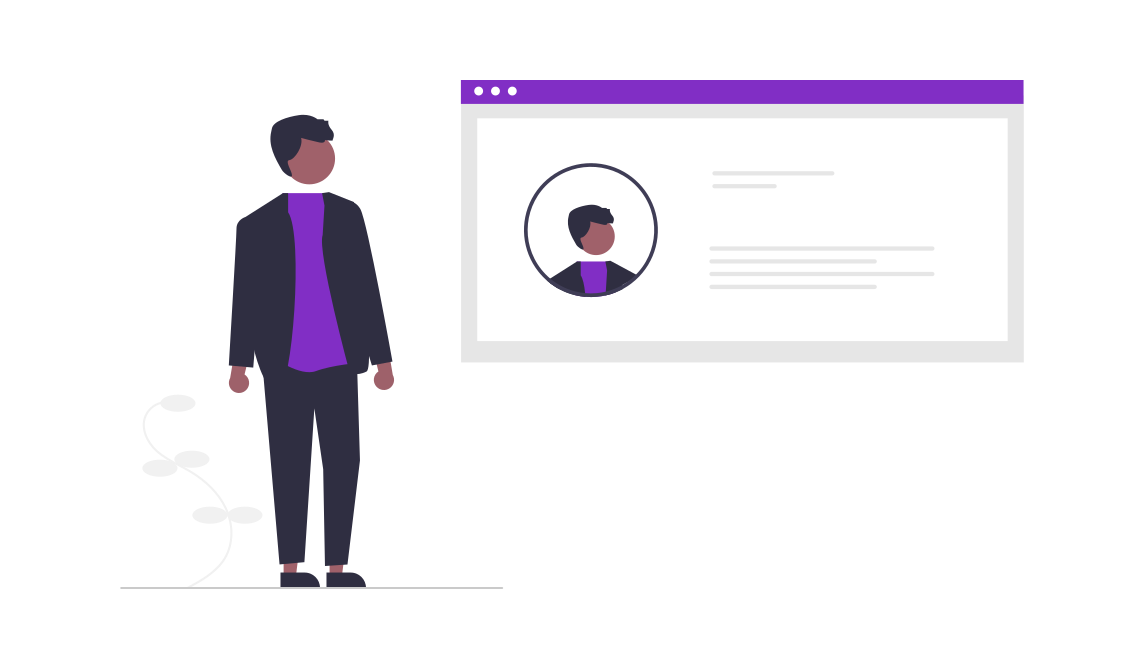
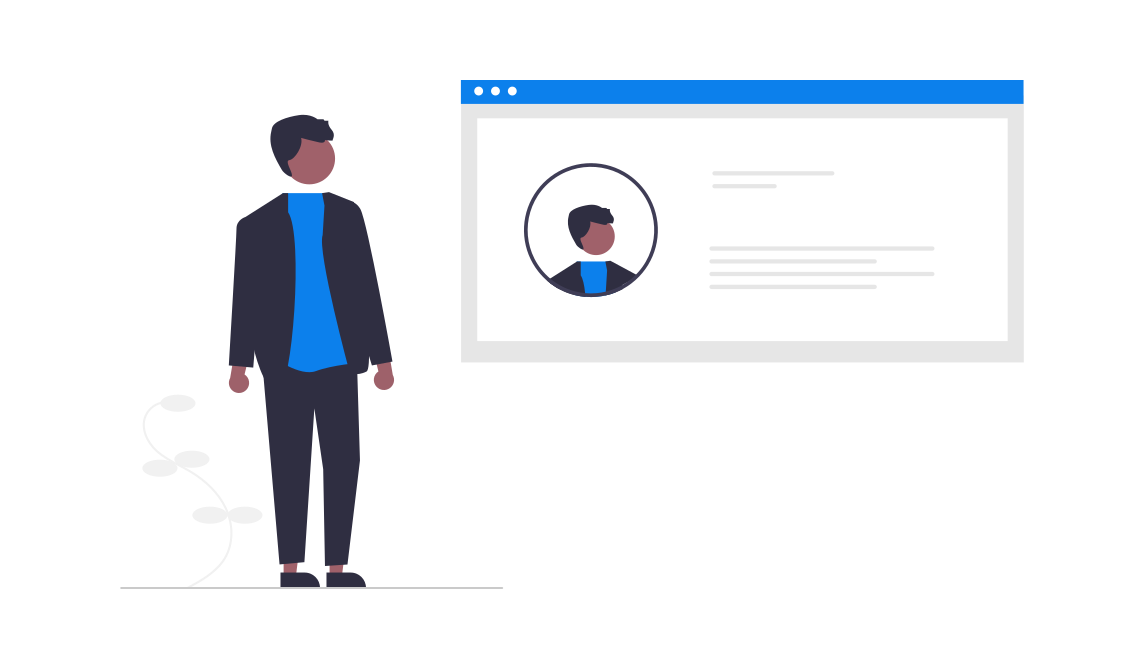
added changes

Changed region(s): [[0.3977, 0.1196, 0.9178, 0.1794], [0.2448, 0.2691, 0.3059, 0.568], [0.4895, 0.3886, 0.5507, 0.4484]]

diff --git a/css/style.css b/css/style.css
@@ -29,7 +29,7 @@ a {
 a:hover,
 a:active,
 a:focus {
-    color: #812ec5;
+    color: #0c80ec;
     outline: none;
     text-decoration: none;
 }
@@ -49,20 +49,20 @@ a:focus {
     font-weight: 600;
     letter-spacing: 1px;
     color: #ffffff;
-    background: #812ec5;
+    background: #0c80ec;
     border: 2px solid transparent;
     border-radius: 0;
-    box-shadow: inset 0 0 0 50px #812ec5;
+    box-shadow: inset 0 0 0 50px #0c80ec;
     transition: ease-out 0.3s;
     -webkit-transition: ease-out 0.3s;
     -moz-transition: ease-out 0.3s;
 }
 
 .btn:hover {
-    color: #812ec5;
+    color: #0c80ec;
     background: transparent;
-    box-shadow: inset 0 0 0 0 #812ec5;
-    border-color: #812ec5;
+    box-shadow: inset 0 0 0 0 #0c80ec;
+    border-color: #0c80ec;
 }
 
 #loader {
@@ -96,7 +96,7 @@ a:focus {
     width: 45px;
     height: 45px;
     border: 5px solid #dddddd;
-    border-top: 5px solid #812ec5;
+    border-top: 5px solid #0c80ec;
     border-radius: 50%;
     -webkit-animation: spin 2s linear infinite;
     animation: spin 2s linear infinite;
@@ -202,7 +202,7 @@ a:focus {
         color: #ffffff;
     }
     .navbar.nav-sticky .navbar-brand {
-        color: #812ec5;
+        color: #0c80ec;
     }
     .navbar-light .navbar-nav .nav-link,
     .navbar-light .navbar-nav .nav-link:focus {
@@ -221,7 +221,7 @@ a:focus {
     }
     .navbar-light.nav-sticky .navbar-nav .nav-link:hover,
     .navbar-light.nav-sticky .navbar-nav .nav-link.active {
-        color: #812ec5;
+        color: #0c80ec;
     }
 }
 
@@ -231,7 +231,7 @@ a:focus {
         background: #ffffff !important;
     }
     .navbar .navbar-brand {
-        color: #812ec5;
+        color: #0c80ec;
     }
     .navbar .navbar-nav {
         margin-top: 15px;
@@ -259,7 +259,7 @@ a:focus {
     margin-bottom: 45px;
     padding: 120px 0 0 0;
     overflow: hidden;
-    background: linear-gradient(rgba(129, 46, 197, .95), rgba(25, 6, 73, .95)), url(../img/hero-bg.jpg);
+    background: linear-gradient(rgba(12, 128, 236, .95), rgba(12, 38, 135, .90)), url(../img/hero-bg.jpg);
     background-position: center;
     background-repeat: no-repeat;
     background-size: cover;
@@ -325,7 +325,7 @@ a:focus {
 
 .hero .hero-btn .btn {
     margin-top: 35px;
-    color: #812ec5;
+    color: #0c80ec;
     background: #ffffff;
     box-shadow: inset 0 0 0 50px #ffffff;
 }
@@ -442,7 +442,7 @@ a:focus {
     top: 11px;
     right: 0;
     left: -30px;
-    background: #812ec5;
+    background: #0c80ec;
     z-index: -1;
 }
 
@@ -453,7 +453,7 @@ a:focus {
     height: 3px;
     top: 11px;
     left: 3px;
-    background: #812ec5;
+    background: #0c80ec;
     z-index: 1;
 }
 
@@ -578,7 +578,7 @@ f
     content: '';
     position: absolute;
     width: 2px;
-    background: #812ec5;
+    background: #0c80ec;
     top: 0;
     bottom: 0;
     left: 50%;
@@ -610,7 +610,7 @@ f
     top: 48px;
     right: -8px;
     background: #ffffff;
-    border: 2px solid #812ec5;
+    border: 2px solid #0c80ec;
     border-radius: 16px;
     z-index: 1;
 }
@@ -642,7 +642,7 @@ f
     top: 44px;
     font-size: 16px;
     font-weight: 600;
-    color: #812ec5;
+    color: #0c80ec;
     text-transform: uppercase;
     letter-spacing: 1px;
     z-index: 1;
@@ -742,7 +742,7 @@ f
     position: relative;
     width: 100%;
     padding: 45px 0 15px 0;
-    background-color: hsla(273, 62%, 95%);
+    background-color: hsla(209, 90%, 98%);
     margin-bottom: 20px;
 }
 
@@ -766,14 +766,14 @@ f
     display: flex;
     align-items: center;
     justify-content: center;
-    border: 2px solid #812ec5;
+    border: 2px solid #0c80ec;
     background: #ffffff;
 }
 
 .service .service-icon i {
     position: relative;
     font-size: 60px;
-    color: #812ec5;
+    color: #0c80ec;
     transition: .3s;
 }
 
@@ -802,7 +802,7 @@ f
 
 .service .service-item:hover .service-text h3,
 .service .service-item:hover .service-text p {
-    color: #190649;
+    color: #0c2687;
 }
 
 @media (max-width: 575.98px) {
@@ -846,10 +846,10 @@ f
     font-size: 14px;
     font-weight: 600;
     color: #ffffff;
-    background: #812ec5;
+    background: #0c80ec;
     border: 2px solid transparent;
     border-radius: 0;
-    box-shadow: inset 0 0 0 50px #812ec5;
+    box-shadow: inset 0 0 0 50px #0c80ec;
     transition: ease-out 0.3s;
     -webkit-transition: ease-out 0.3s;
     -moz-transition: ease-out 0.3s;
@@ -857,10 +857,10 @@ f
 
 .portfolio #portfolio-filter li:hover,
 .portfolio #portfolio-filter li.filter-active {
-    color: #812ec5;
+    color: #0c80ec;
     background: transparent;
-    box-shadow: inset 0 0 0 0 #812ec5;
-    border-color: #812ec5;
+    box-shadow: inset 0 0 0 0 #0c80ec;
+    border-color: #0c80ec;
 }
 
 .portfolio .portfolio-item {
@@ -922,10 +922,10 @@ f
 }
 
 .portfolio .portfolio-item:hover a.btn {
-    color: #812ec5;
+    color: #0c80ec;
     background: transparent;
-    box-shadow: inset 0 0 0 0 #812ec5;
-    border-color: #812ec5;
+    box-shadow: inset 0 0 0 0 #0c80ec;
+    border-color: #0c80ec;
 }
 
 
@@ -938,7 +938,7 @@ f
     position: relative;
     width: 100%;
     margin: 45px 0;
-    background: #190649;
+    background: #0c2687;
 }
 
 .contact h2 {
@@ -955,7 +955,7 @@ f
 .contact .contact-form {
     position: relative;
     padding: 90px 0 90px 45px;
-    background: #812ec5;
+    background: #0c80ec;
 }
 
 .contact .contact-form input {
@@ -989,7 +989,7 @@ f
 
 .contact .contact-form .btn {
     margin-top: 35px;
-    color: #812ec5;
+    color: #0c80ec;
     background: #ffffff;
     box-shadow: inset 0 0 0 50px #ffffff;
 }

diff --git a/index.html b/index.html
@@ -119,9 +119,8 @@
                             <ul>
                                 <li>Adobe Illustrator, XD, FIGMA</li>
                             </ul>
-
                         </div>
-                        <a class="btn" href="#contact">Contact Me</a>
+                        <a class="btn" href="https://forms.gle/QTXEAG3fGhaebypi7">Contact Me</a>
                     </div>
                 </div>
             </div>
@@ -327,7 +326,7 @@
                             <div class="col-md-8">
                                 <div class="contact-form">
                                     <div id="success"></div>
-                                    <form name="sentMessage" id="contactForm" novalidate="novalidate">
+                                    <!-- <form name="sentMessage" id="contactForm" novalidate="novalidate">
                                         <div class="control-group">
                                             <input type="text" class="form-control" id="name" placeholder="Your Name" required="required" data-validation-required-message="Please enter your name" />
                                             <p class="help-block"></p>
@@ -337,16 +336,17 @@
                                             <p class="help-block"></p>
                                         </div>
                                         <div class="control-group">
-                                            <input type="text" class="form-control" id="subject" placeholder="Subject" required="required" data-validation-required-message="Please enter a subject" />
+                                            <input type="text" class="form-control" id="phone" placeholder="Phone Number" />
                                             <p class="help-block"></p>
                                         </div>
                                         <div class="control-group">
                                             <textarea class="form-control" id="message" placeholder="Message" required="required" data-validation-required-message="Please enter your message"></textarea>
                                             <p class="help-block"></p>
-                                        </div>
-                                        <div>
-                                            <button class="btn" type="submit" id="sendMessageButton">Send Message</button>
-                                        </div>
+                                        </div> -->
+                                    <div>
+                                        <a class="btn" href="https://forms.gle/QTXEAG3fGhaebypi7">Contact Form</a>
+                                        <!-- <button class="btn" type="submit" id="sendMessageButton">Send Message</button> -->
+                                    </div>
                                     </form>
                                 </div>
                             </div>
